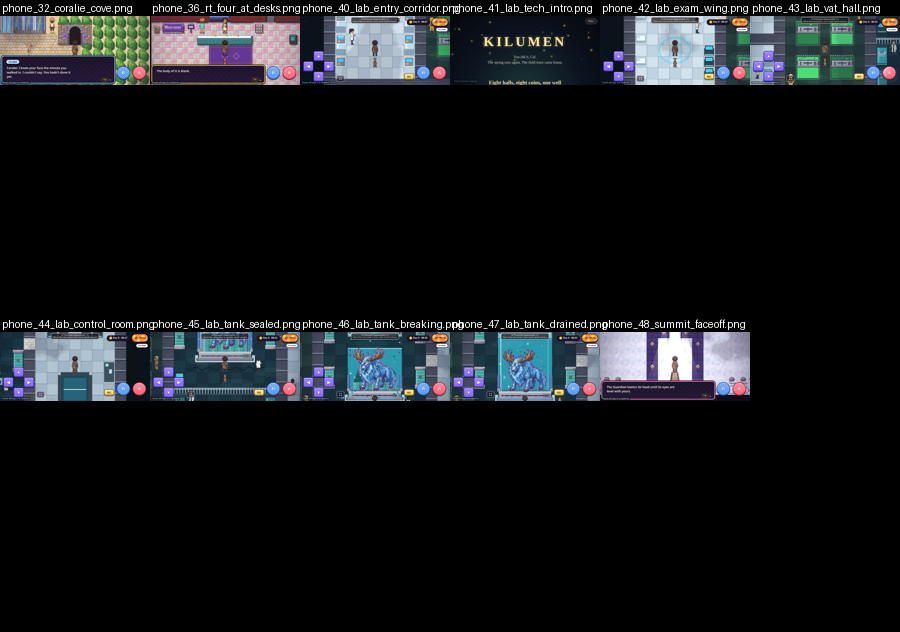
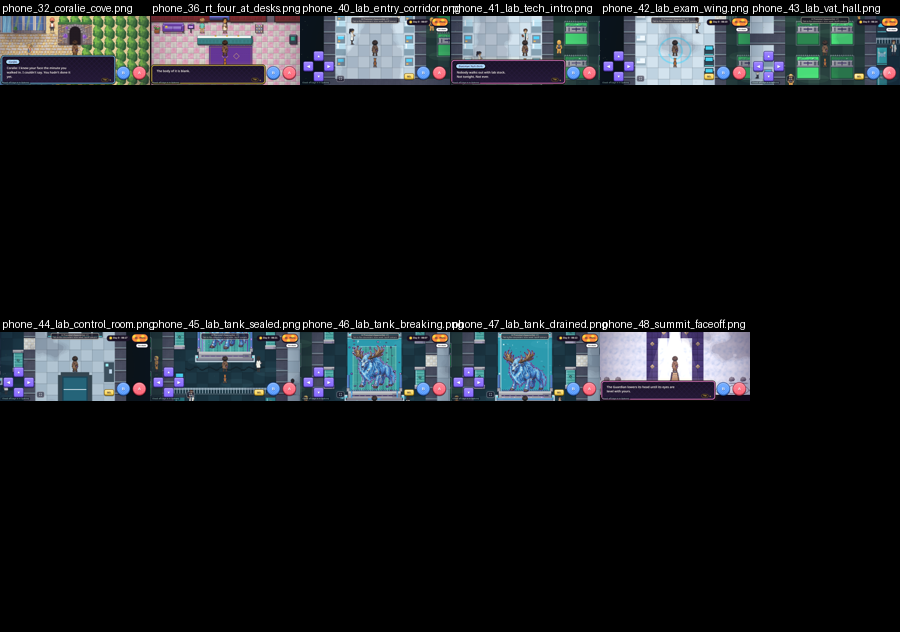
Wellspire v2: retake shots 41/46/47 + contact sheets, summit camp life (4 field-team NPCs, supplies, weather mast), Arena room 8 steward + fan (DRAFT text)

Changed region(s): [[0.4978, 0.0, 0.6844, 0.1503], [0.3733, 0.5111, 0.4978, 0.6313], [0.6222, 0.5411, 0.6533, 0.6013]]

diff --git a/kilumen/src/region78/arena.js b/kilumen/src/region78/arena.js
@@ -56,6 +56,8 @@ export const ARENA_FALLBACK = {
   waiting: ['Start with the first fighter, in the first room. We go in order.'],
   beaten: ['The stairs are open. Keep going!'],
   challenge: (f, name = f.name) => [`${name}, Arena fighter. ${f.type[0].toUpperCase() + f.type.slice(1)} type, all the way.`],
+  steward8: ['The last room. Corvin has been waiting all day.', 'Take your time. Nobody rushes the last fight.'],
+  fan8: ['I climbed all eight floors just to watch this one.', 'No pressure. Well. Some pressure.'],
   lostLine: (f, name = f.name) => [`${name}: Good fight. Keep going.`],
 };
 const getPath = (o, p) => p.split('.').reduce((a, k) => a?.[k], o);
@@ -107,6 +109,7 @@ export async function fightRoom(ctx, f) {
   await ctx.say(ctx.text('won'), null); ctx.reset(); await ctx.done?.(); return 'won';
 }
 
+const ROOM8_LIFE = { arena_steward_8: 'steward8', arena_fan_8: 'fan8' }; // room 8 arrival life (Oct 30)
 /** overworld.js talkHooks entry: the clerk (lobby) and fighter N in aurelith_arena_room_N. */
 export function arenaHook(scene) {
   const look = (k) => { const v = getPath(scene.lines, k); const p = Array.isArray(v) ? v : v?.pages; return p?.length ? p : null; };
@@ -128,9 +131,10 @@ export function arenaHook(scene) {
   const npcOf = (id) => scene.npcs?.list?.find?.((n) => n.id === id);
   const sp = (f) => (f ? scene.speakerFor?.(npcOf(f.id), true) || { name: nameOf(f) } : null);
   return {
-    match: (mapName, def) => (mapName === ARENA.map && (def?.id === ARENA.clerk || def?.id === RON7.id))
+    match: (mapName, def) => (mapName === ARENA.map && (def?.id === ARENA.clerk || def?.id === RON7.id)) || (mapName === ARENA.room(8) && ROOM8_LIFE[def?.id])
       || ARENA.fighters.some((f, i) => mapName === ARENA.room(i + 1) && def?.id === f.id),
     run: async ({ def, speaker }) => {
+      if (ROOM8_LIFE[def.id] && scene.map?.name === ARENA.room(8)) return scene.say(look(`maps.${ARENA.room(8)}.${def.id}`) || ARENA_FALLBACK[ROOM8_LIFE[def.id]], speaker);
       if (def.id === RON7.id) return ron7Talk(scene, speaker);
       if (def.id === ARENA.clerk) return scene.say(flags.has(ARENA.clearFlag) ? text('clerkCleared') : text('clerk'), speaker);
       const f = ARENA.fighters.find((x) => x.id === def.id), n = roomOf(f), st = fighterState(flags, n);

diff --git a/kilumen/src/region9/index.js b/kilumen/src/region9/index.js
@@ -68,6 +68,8 @@ export const TALK = {
   r9_sw_survey_3: { intro: 'r9.survey_crew_3', after: 'r9.trainer_after' },
   fin_teo: { say: 'summit.camp.teo', flag: 'found_team_summit' }, fin_marta: { say: 'summit.camp.marta', flag: 'found_team_summit' },
   fin_pell: { say: 'summit.camp.pell', flag: 'found_team_summit' }, fin_imke: { say: 'summit.camp.imke', flag: 'found_team_summit' },
+  // camp life (Oct 30): other RT field teams resting at the summit camp, always there (DRAFT text summit.camp.ft_*)
+  fin_camp_bryn: { say: 'summit.camp.ft_bryn' }, fin_camp_otto: { say: 'summit.camp.ft_otto' }, fin_camp_sunniva: { say: 'summit.camp.ft_sunniva' }, fin_camp_lorcan: { say: 'summit.camp.ft_lorcan' },
   fin_ep_teo: { say: 'fin.epilogue.teo_readings' }, fin_ep_marta: { say: 'fin.epilogue.marta_bench' }, fin_ep_pell: { say: 'fin.epilogue.pell' }, fin_ep_imke: { say: 'fin.epilogue.imke' },
   r9_spire_keeper_1: { intro: 'r9.spire_keeper_after', after: 'r9.spire_keeper_after' }, r9_spire_keeper_2: { intro: 'r9.spire_keeper_after', after: 'r9.spire_keeper_after' },
   r9_spire_keeper_3: { intro: 'r9.spire_keeper_after', after: 'r9.spire_keeper_after' },
@@ -261,6 +263,7 @@ export function attachRegion9(scene, { systems } = {}) {
     r9_skylift_down: async () => { if (await ask('r9.skylift_down')) await warp(to('frostspire_lift_int', 'r9_skylift_entry')); },
     r9_switchbacks_up: async () => { await say('r9.switchbacks_up', narr); await warp(to('r9_icefall', '_arrive_icefall')); },
     r9_icefall_signal: () => say('r9.icefall_signal', narr),
+    fin_camp_supplies: () => say('summit.camp_supplies', narr), fin_camp_mast: () => say('summit.camp_mast', narr),
     fin_camp_fire: async () => { heal(); await say('summit.camp_fire', narr); },
     fin_spire_door: async () => {
       if (!has('found_team_summit')) return say('summit.spire_door_wait', narr);

diff --git a/kilumen/src/region9/text_fallback_v2.js b/kilumen/src/region9/text_fallback_v2.js
@@ -119,4 +119,11 @@ export const FB2 = {
   'fin.enc.fin_enc_tech_5.after': ["Tech: Look at him. He's looking at you like he knows you."],
   'fin.enc.tank_locked': ['The tank glass hums under your hand. A panel blinks: RELEASE CODE REQUIRED.', 'The control room is east.'],
   'fin.summit.faceoff': ['The Guardian lowers its head until its eyes are level with yours.', 'Neither of you moves.'],
+  // ---- summit camp life (Oct 30, DRAFT): other field teams who made it up ----
+  'summit.camp.ft_bryn': ['Bryn, Team Lark: The wind dropped the second we got here. Nobody trusts it.'],
+  'summit.camp.ft_otto': ['Otto, Team Harrow: Three teams, one fire. First time we have all agreed on anything.'],
+  'summit.camp.ft_sunniva': ['Sunniva, Team Quill: I keep recording the spire. The tape comes back with a hum on it.'],
+  'summit.camp.ft_lorcan': ['Lorcan, Team Moraine: My map ends at this camp. Past here, the lines will not stay put.'],
+  'summit.camp_supplies': ['Crates stamped RT FIELD SUPPLY. Rope, cocoa, spare batteries. Someone packed for a long stay.'],
+  'summit.camp_mast': ['A small weather mast. The needle points at the spire, whichever way the wind blows.'],
 };

diff --git a/kilumen/tools/wellspire/camp_life.py b/kilumen/tools/wellspire/camp_life.py
@@ -1,0 +1,29 @@
+"""Summit camp life (Coder, Oct 30 2026; Gary playtest 5/10 "feels empty"): 4 always-on members of other RT field
+teams + 2 camp props (supply crates, weather mast), placed with build_wellspire.M rules (never plug a lane, every warp
+and spot stand stays reachable). Idempotent: drops its own ids first. Text: DRAFT keys summit.camp.ft_* (text_fallback_v2.js)."""
+import json, os, sys
+sys.path.insert(0, os.path.dirname(__file__))
+from build_wellspire import M, MAPS, load
+NAME = 'fin_summit_camp'
+NPCS = [('fin_camp_bryn', (14, 18), 'tr_hiker_f', 'right'), ('fin_camp_otto', (19, 19), 'tr_ranger_m', 'left'),
+        ('fin_camp_sunniva', (7, 15), 'tr_scientist_f', 'down'), ('fin_camp_lorcan', (25, 15), 'tr_camper_f', 'down')]
+SPOTS = [('fin_camp_supplies', (14, 12)), ('fin_camp_mast', (21, 12))]
+def run():
+    m = object.__new__(M); m.j = load(NAME); m.name = NAME; m.col = m.j['layers']['collision']; m.w = m.j['width']; m.h = m.j['height']
+    ids = {n for n, *_ in NPCS} | {s for s, _ in SPOTS}
+    m.j['npcs'] = [n for n in m.j['npcs'] if n['id'] not in ids]; m.j['interact_spots'] = [s for s in m.j['interact_spots'] if s['id'] not in ids]
+    m.used = {(w['x'], w['y']) for w in m.j['warps']} | {(n['x'], n['y']) for n in m.j['npcs']}
+    for s in m.j['interact_spots']: m.used |= {(s['x'], s['y']), tuple(s['stand'])}
+    m.pts = {}; m._anchor = (16, 22)
+    for sid, want in SPOTS: m.spot(sid, want)
+    for nid, want, spr, face in NPCS: m.npc(nid, want, 'clerk', face, sprite=spr)
+    m.check()
+    json.dump(m.j, open(os.path.join(MAPS, NAME + '.json'), 'w'), indent=1)
+    p = os.path.join(MAPS, '..', '..', '..', 'characters', 'pixel', 'npcs', 'npc_sprite_map.json'); sm = json.load(open(p))
+    for nid, _, sid, _ in NPCS:
+        sm['map'][f'{NAME}.{nid}'] = {'sprite_id': sid, 'class': 'Wellspire summit camp, RT field team member (camp life)',
+            **{k: f'npcs/{sid}/overworld/{sid}{v}' for k, v in (('overworld_sheet', '_chibi_sheet.png'), ('overworld_sheet_2x', '_chibi_sheet_2x.png'), ('overworld_sheet_3x', '_chibi_sheet_3x.png'))},
+            'overworld_frames_dir': f'npcs/{sid}/overworld/{sid}_chibi/'}
+    open(p, 'w', encoding='utf-8').write(json.dumps(sm, indent=1, ensure_ascii=False) + '\n')
+    print([(n['id'], n['x'], n['y']) for n in m.j['npcs']], [(s['id'], s['x'], s['y']) for s in m.j['interact_spots']])
+if __name__ == '__main__': run()

diff --git a/kilumen/tools/city/build_aurelith_arena.py b/kilumen/tools/city/build_aurelith_arena.py
@@ -126,6 +126,8 @@ lnpcs = [{'id': 'aurelith_arena_clerk', 'x': 13, 'y': 4, 'facing': 'down', 'kind
 out['aurelith_arena'] = {'name': 'aurelith_arena', 'title': 'Aurelith Arena', 'width': LOBBY_W, 'height': LOBBY_H, 'tile_size': 64, 'tileset': '../tileset.json',
     'layers': lo.L, 'warps': lw, 'exits': [], 'npcs': lnpcs, 'signs': [], 'items': [], 'encounter_zones': [], 'source': SRC, 'movement': MOVE}
 
+# Room 8 life (Coder Oct 30, Gary playtest 6/10 "empty on arrival"): a steward + a fan by the entrance mats, in view on arrival
+ROOM8_LIFE = [{"id": "arena_steward_8", "x": 4, "y": 12, "facing": "right", "kind": "npc", "sprite": "vil_guard_m", "note": "Arena room 8 steward, greets you on arrival (DRAFT, src/region78/arena.js ARENA_FALLBACK.steward8)"}, {"id": "arena_fan_8", "x": 12, "y": 12, "facing": "left", "kind": "npc", "sprite": "vil_fan_m", "note": "Arena room 8 fan in the stands (DRAFT, ARENA_FALLBACK.fan8)"}]
 # ---- 8 rooms (v3 final throne rooms, Gary 6:41 PM CT pt2163u: "more majesty ... screams end of the game boss") ----
 # 17x15 symmetric hall: walls rows 0-2; 5x6 animated centrepiece a3_<t>_centre (x 6-10, rows 0-5, rows 3-5 block); 1x5
 # framing pillars x 4/12; emblem banners x 2/5/11/14; dais row 6 (x 5-11) with the fighter at 8,6 (talk from 8,7);
@@ -164,7 +166,7 @@ for n, (t, spr) in enumerate(zip(TYPES, SPR), 1):
     npc = {'id': f'arena_fighter_{n}', 'x': 8, 'y': 6, 'facing': 'down', 'kind': 'trainer', 'sprite': spr,
            'note': f'Arena fighter {n} of 8, {t} type (back to back run, src/region78/arena.js; team in trainer_teams.js)', 'text_ref': TR + f'arena_fighter_{n}'}
     j = {'name': room(n), 'title': 'Aurelith Arena', 'width': RW, 'height': RH, 'tile_size': 64, 'tileset': '../tileset.json', 'layers': m.L,
-         'warps': warps, 'exits': [], 'npcs': [npc], 'signs': [], 'items': [], 'encounter_zones': [], 'story_gates': gates,
+         'warps': warps, 'exits': [], 'npcs': [npc] + (ROOM8_LIFE if n == 8 else []), 'signs': [], 'items': [], 'encounter_zones': [], 'story_gates': gates,
          'tint': {'grade': th['grade'], 'note': f'{t} throne room lighting (+ mood.json tint/particles)'}, 'arena_theme': {'type': t, 'from': th['hall'], 'centrepiece': th['what']}, 'source': SRC, 'movement': MOVE}
     out[room(n)] = j
     th['mood']['particles'] = [dict(q, density=int(q['density'] * 1.8)) for q in th['mood']['particles']] + th.get('extra', [])
